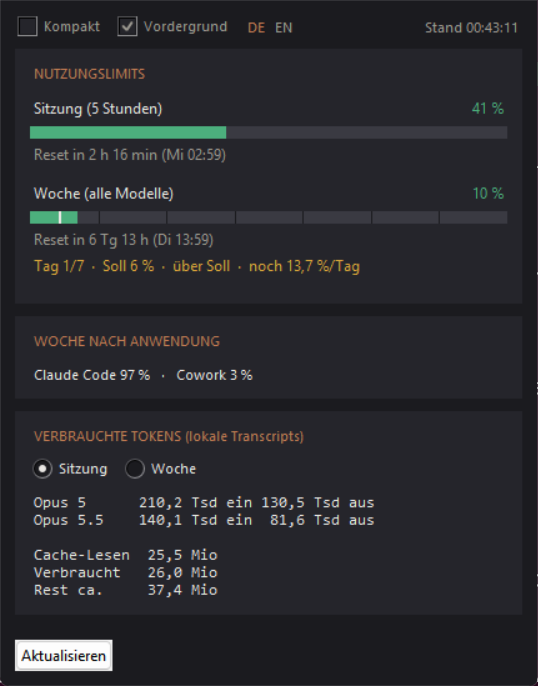
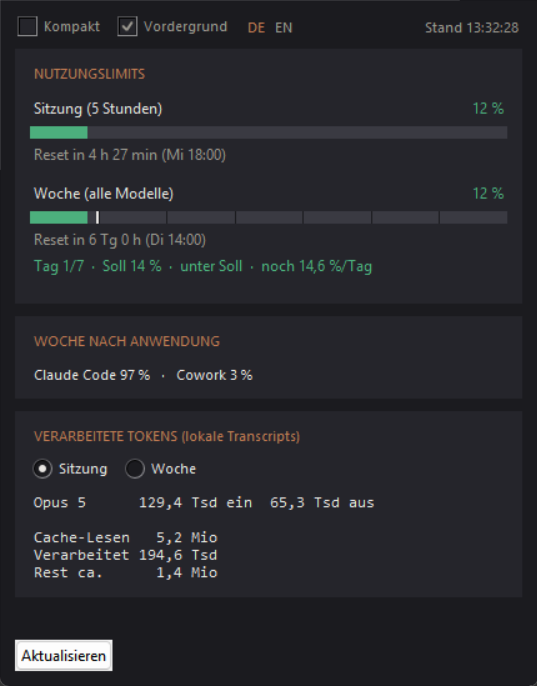
Kompaktansicht zeigt auch das Wochenlimit
Unter dem Sitzungsbalken liegt jetzt der Wochenbalken mit Tagesraster und
Soll-Marke, knapp beschriftet mit »Woche« und dem Prozentwert. Countdown
und Soll-Ist-Vergleich der Woche bleiben der Vollansicht vorbehalten.
Die Fensterhöhe bleibt unverändert bei 136 px: Der Prozentwert der Sitzung
ist kleiner (14 statt 20 pt), Balkenhöhe und Ränder sind gestrafft.

Die Tokenzählung lässt die Cache-Lesevorgänge aus der Summe heraus. Sie
lesen denselben Kontext bei jeder Nachricht erneut, wachsen damit allein
durch die Länge einer Sitzung und machten zuletzt 96 % der Wochensumme
aus; in die Limits gehen sie nur zu einem Bruchteil ein. Gezählt wird
jetzt, was neu verarbeitet wurde – Eingabe, Ausgabe und das Anlegen des
Caches –, und zwar einheitlich in der Tokenliste, der Restschätzung, der
Kompaktzeile und der lokalen Fortschreibung des Prozentwerts. Die
Lesevorgänge stehen weiterhin in einer eigenen Zeile. Dadurch addieren
sich die Spalten »ein« und »aus« nun genau zur Zeile »Verarbeitet«.

Screenshots der Vollansicht in beiden Sprachen neu aufgenommen, dazu
erstmals die Kompaktansicht.

diff --git a/README.md b/README.md
@@ -24,7 +24,12 @@ weitere Sprache kostet eine Spalte dort und einen Eintrag in `SPRACHEN`.
 ## Zwei Ansichten
 
 * **Vollansicht** – alle Limits, Aufteilung der Woche und die Tokenaufstellung.
-* **Kompakt** – nur das 5-Stunden-Limit, groß, mit Verbrauch und Restschätzung.
+* **Kompakt** – das 5-Stunden-Limit groß, darunter der Wochenbalken mit
+  Tagesraster und Soll-Marke, dazu die verarbeiteten Tokens und die
+  Restschätzung. Countdown und Soll-Ist-Vergleich der Woche stehen in der
+  Vollansicht.
+
+![Die Kompaktansicht](docs/screenshot-kompakt-de.png)
 
 Umschalten über das Häkchen **Kompakt** oben links oder per Doppelklick ins Fenster.
 Daneben liegt **Vordergrund** (Fenster bleibt über anderen), rechts der Stand der
@@ -72,7 +77,7 @@ sekündlich mit der Uhr weiter; springt das Fenster um, fängt die Marke wieder 
 an. Die Rasterweite richtet sich nach der tatsächlichen Fensterlänge aus der API,
 sieben Tage sind nur der Rückfall.
 
-**Verbrauchte Tokens** – die API nennt nur Prozentwerte, keine Tokenzahlen. Die
+**Verarbeitete Tokens** – die API nennt nur Prozentwerte, keine Tokenzahlen. Die
 tatsächlichen Zahlen werden deshalb aus den lokalen Transcript-Dateien
 (`~/.claude/projects/**/*.jsonl`) ausgezählt, gefiltert auf genau die Zeitfenster
 der beiden Limits. Berücksichtigt werden sowohl das Windows-Verzeichnis
@@ -80,7 +85,13 @@ der beiden Limits. Berücksichtigt werden sowohl das Windows-Verzeichnis
 WSL-Distributionen. Mehrfach vorkommende Nachrichten (Fork, Kompaktierung) werden
 über die Message-ID nur einmal gezählt.
 
-`Rest ca.` rechnet aus verbrauchten Tokens und Auslastung hoch, wie viel im Fenster
+`Verarbeitet` zählt Eingabe, Ausgabe und das Anlegen des Caches. Die
+Cache-Lesevorgänge stehen in einer eigenen Zeile und bleiben aus dieser Summe
+heraus: Sie lesen denselben Kontext bei jeder Nachricht erneut, wachsen damit
+allein durch die Länge einer Sitzung und würden die Summe sonst beherrschen –
+in die Limits gehen sie nur zu einem Bruchteil ein.
+
+`Rest ca.` rechnet aus verarbeiteten Tokens und Auslastung hoch, wie viel im Fenster
 noch übrig ist. Das ist eine Schätzung: In die Limits fließt auch Nutzung außerhalb
 von Claude Code ein (siehe Aufteilung nach Anwendung), die lokal nicht sichtbar ist.
 

diff --git a/README.en.md b/README.en.md
@@ -26,7 +26,12 @@ column there and one entry in `SPRACHEN`.
 ## Two views
 
 * **Full** – every limit, the week split by app, and the token breakdown.
-* **Compact** – the 5-hour limit only, large, with usage and remaining estimate.
+* **Compact** – the 5-hour limit in large type, below it the weekly bar with
+  its day grid and target mark, plus tokens processed and the remaining
+  estimate. The weekly countdown and the pacing comparison live in the full
+  view.
+
+![The compact view](docs/screenshot-kompakt-en.png)
 
 Switch with the **Compact** checkbox at the top left or by double-clicking the
 window. Next to it sits **On top**; the right edge shows when the data was last
@@ -73,12 +78,17 @@ the window rolls over, the marker starts at the left again. The grid spacing
 follows the actual window length reported by the API — seven days is only the
 fallback.
 
-**Tokens used** – the API reports percentages only, never token counts. The
+**Tokens processed** – the API reports percentages only, never token counts. The
 actual numbers are therefore counted from the local transcript files
 (`~/.claude/projects/**/*.jsonl`), filtered to exactly the two limit windows.
 Both the Windows directory `%USERPROFILE%\.claude` and the `.claude` directories
 of every installed WSL distribution are included. Messages appearing more than
 once (forks, compaction) are counted once, keyed by message ID.
+
+`Processed` counts input, output and cache writes. Cache reads have a line of
+their own and stay out of that total: they re-read the same context with every
+message, so they grow with the length of a session alone and would dominate the
+total — and they count towards the limits only at a fraction.
 
 `Est. left` extrapolates from tokens counted and utilization reported how much
 is left in the window. It is an estimate: the limits also include usage outside
